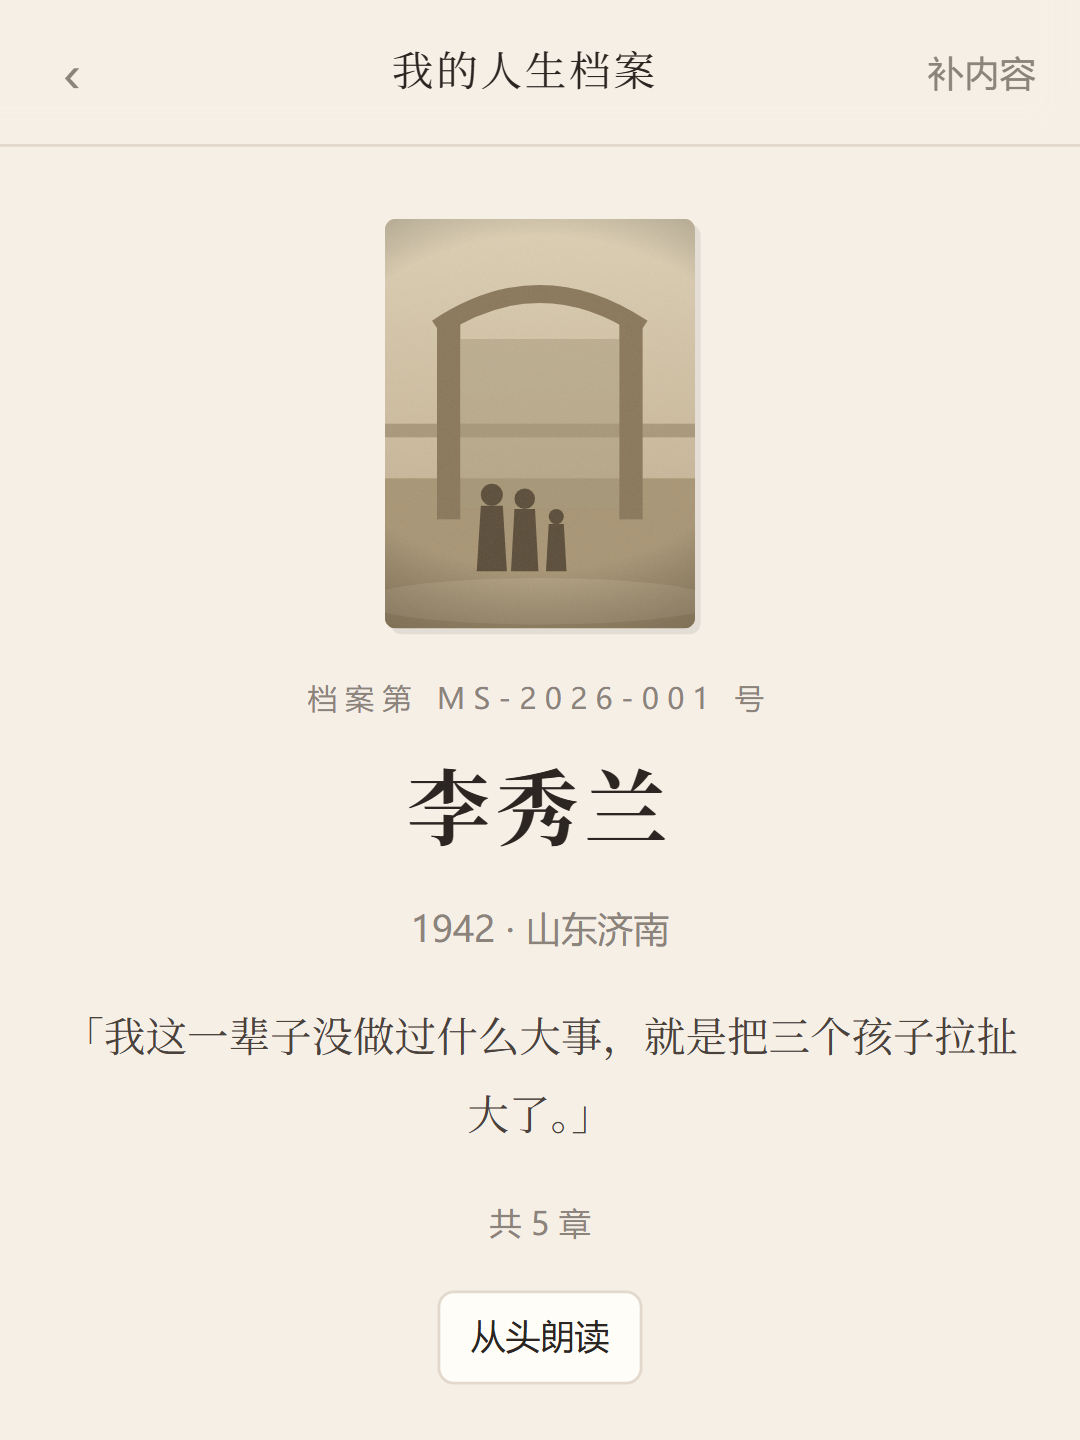
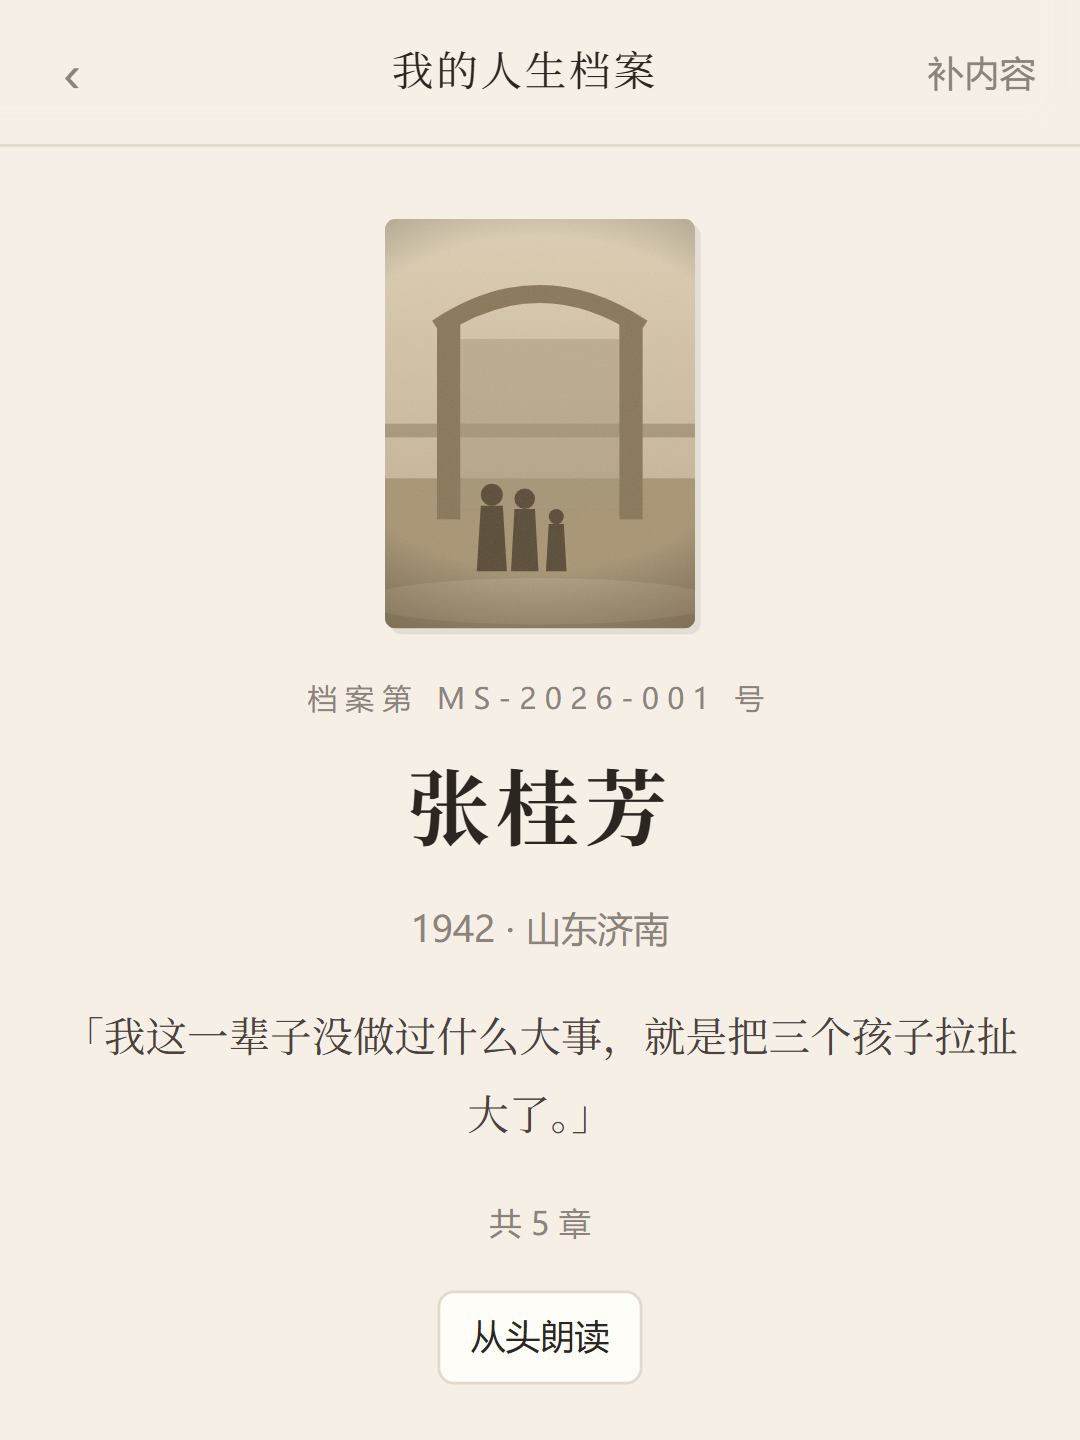
示范档案主角更名：李秀兰 → 张桂芳（配图同步重出）

Changed region(s): [[0.3667, 0.5312, 0.6111, 0.5938]]

diff --git a/tools/shots.js b/tools/shots.js
@@ -121,9 +121,9 @@ async function seed(S, t) {
     fs.writeFileSync(path.join(files, 'audio', 'seg-' + i + '.wav'), silentWav(2));
   }
 
-  // 主角：李秀兰，1942 年生，济南国棉三厂挡车工
+  // 主角：张桂芳，1942 年生，济南国棉三厂挡车工
   await exec(`INSERT INTO archives (archive_no, subject_name, birth_year, hometown, intro, facts_json, status, visibility)
-    VALUES ('MS-2026-001','李秀兰',1942,'山东济南',
+    VALUES ('MS-2026-001','张桂芳',1942,'山东济南',
     '我这一辈子没做过什么大事，就是把三个孩子拉扯大了。',
     '[{"k":"出生","v":"1942 年，济南西郊段店"},{"k":"兄弟姐妹","v":"五个，我排老三"},{"k":"工作","v":"国棉三厂挡车工，四十一年"},{"k":"子女","v":"两个儿子，一个女儿"}]',
     'ready',1)`);
@@ -275,7 +275,7 @@ let chrome = null;
   await S.waitReady();
   const token = await S.register();
   await seed(S, token);
-  console.log('示范档案已就绪（李秀兰 / 王德福 / 陈志远）');
+  console.log('示范档案已就绪（张桂芳 / 王德福 / 陈志远）');
 
   fs.rmSync(path.join(__dirname, '..', 'tmp', 'cdp-profile'), { recursive: true, force: true });
   chrome = spawn(CHROME, [

diff --git a/CHANGELOG.md b/CHANGELOG.md
@@ -24,7 +24,7 @@
 
 ### 新增
 
-- `tools/shots.js`：出公众号配图。起隔离实例 → 造一本完整示范档案（李秀兰 / 王德福 /
+- `tools/shots.js`：出公众号配图。起隔离实例 → 造一本完整示范档案（张桂芳 / 王德福 /
   陈志远）→ 用 CDP（DevTools Protocol）精确设定 390×520@2.77（= 1080×1440，3:4）
   并滚动到指定段落截图。`chrome --screenshot` 只能平截视口、不能滚动，所以走 CDP。
   演示用的老照片是 SVG 画的做旧相纸风格，不消耗任何生图额度。
